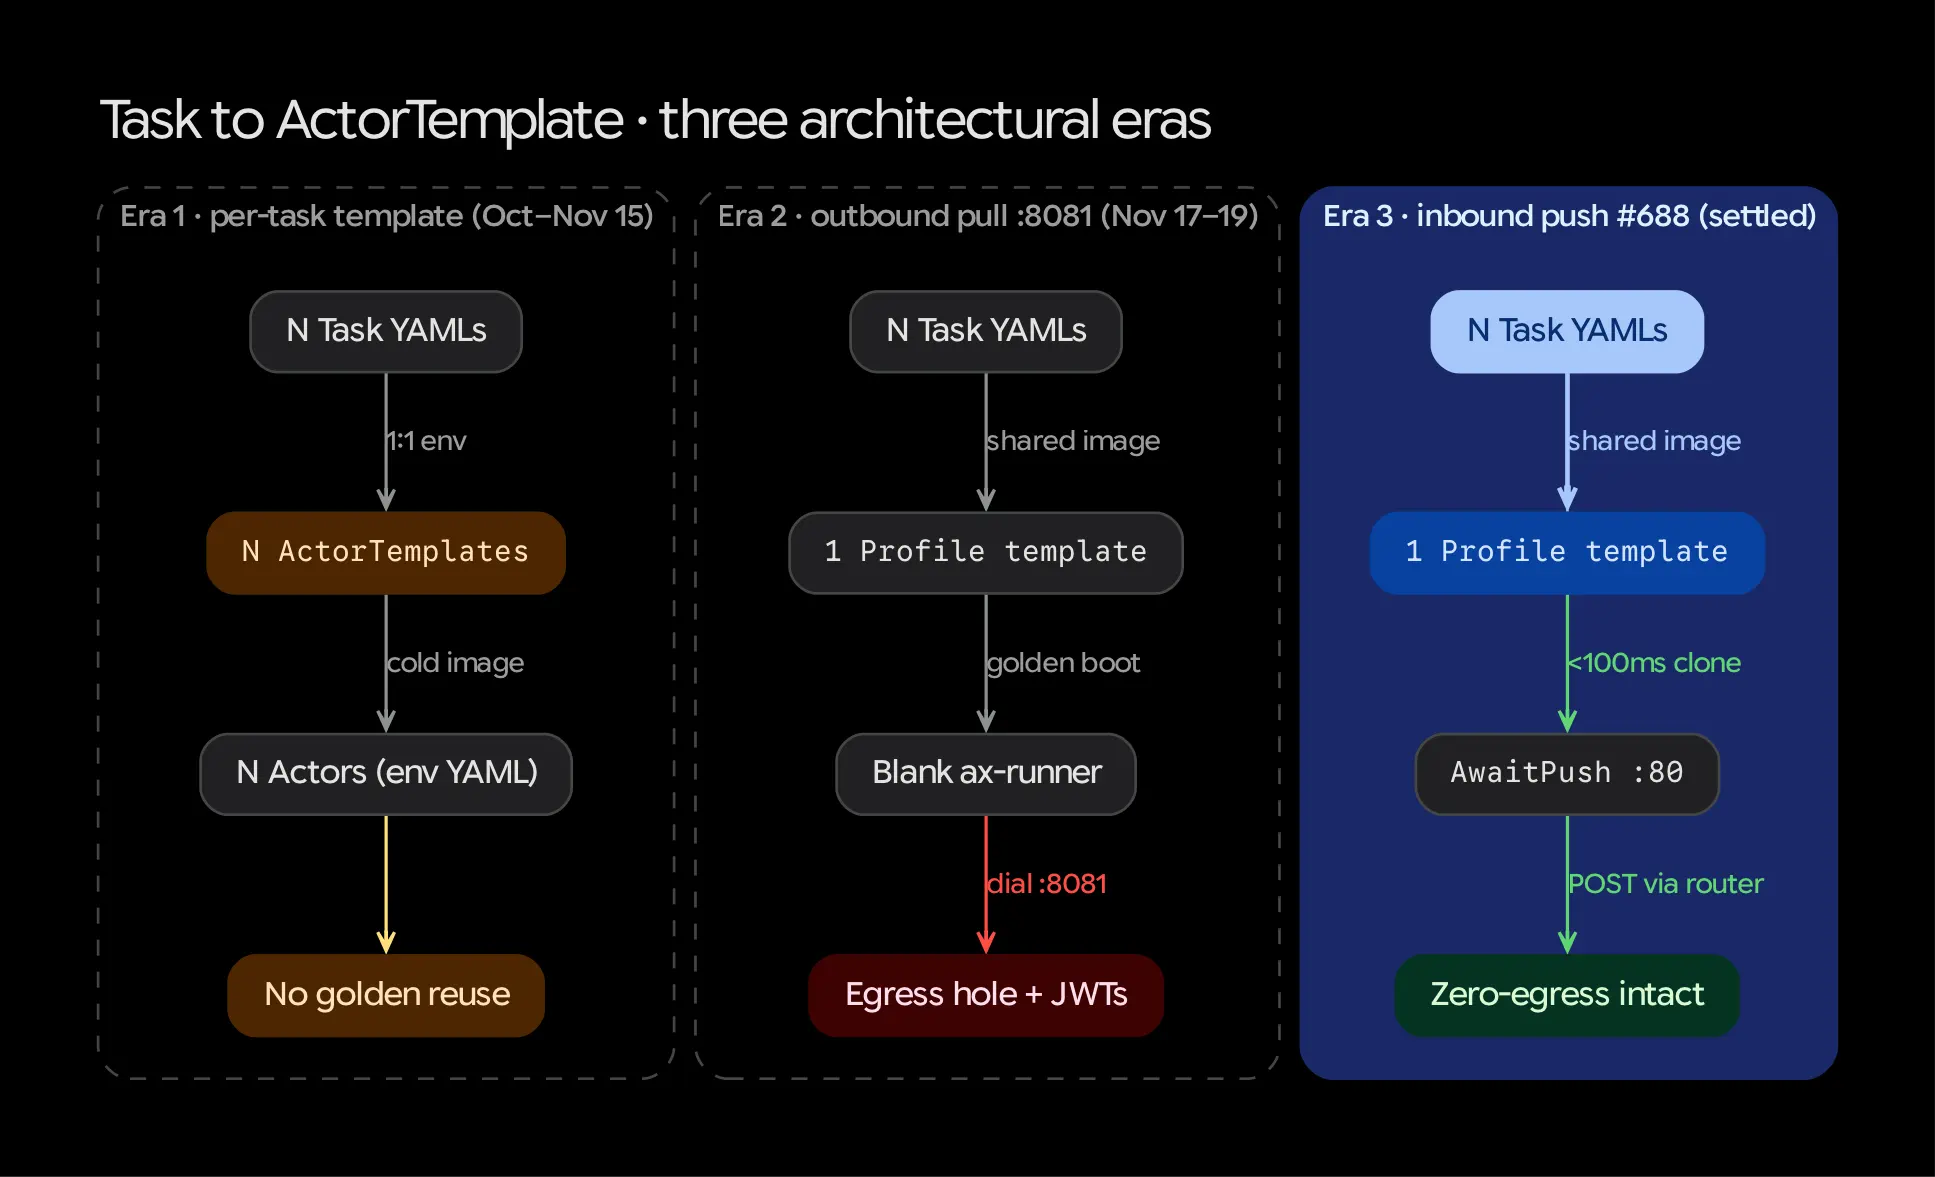
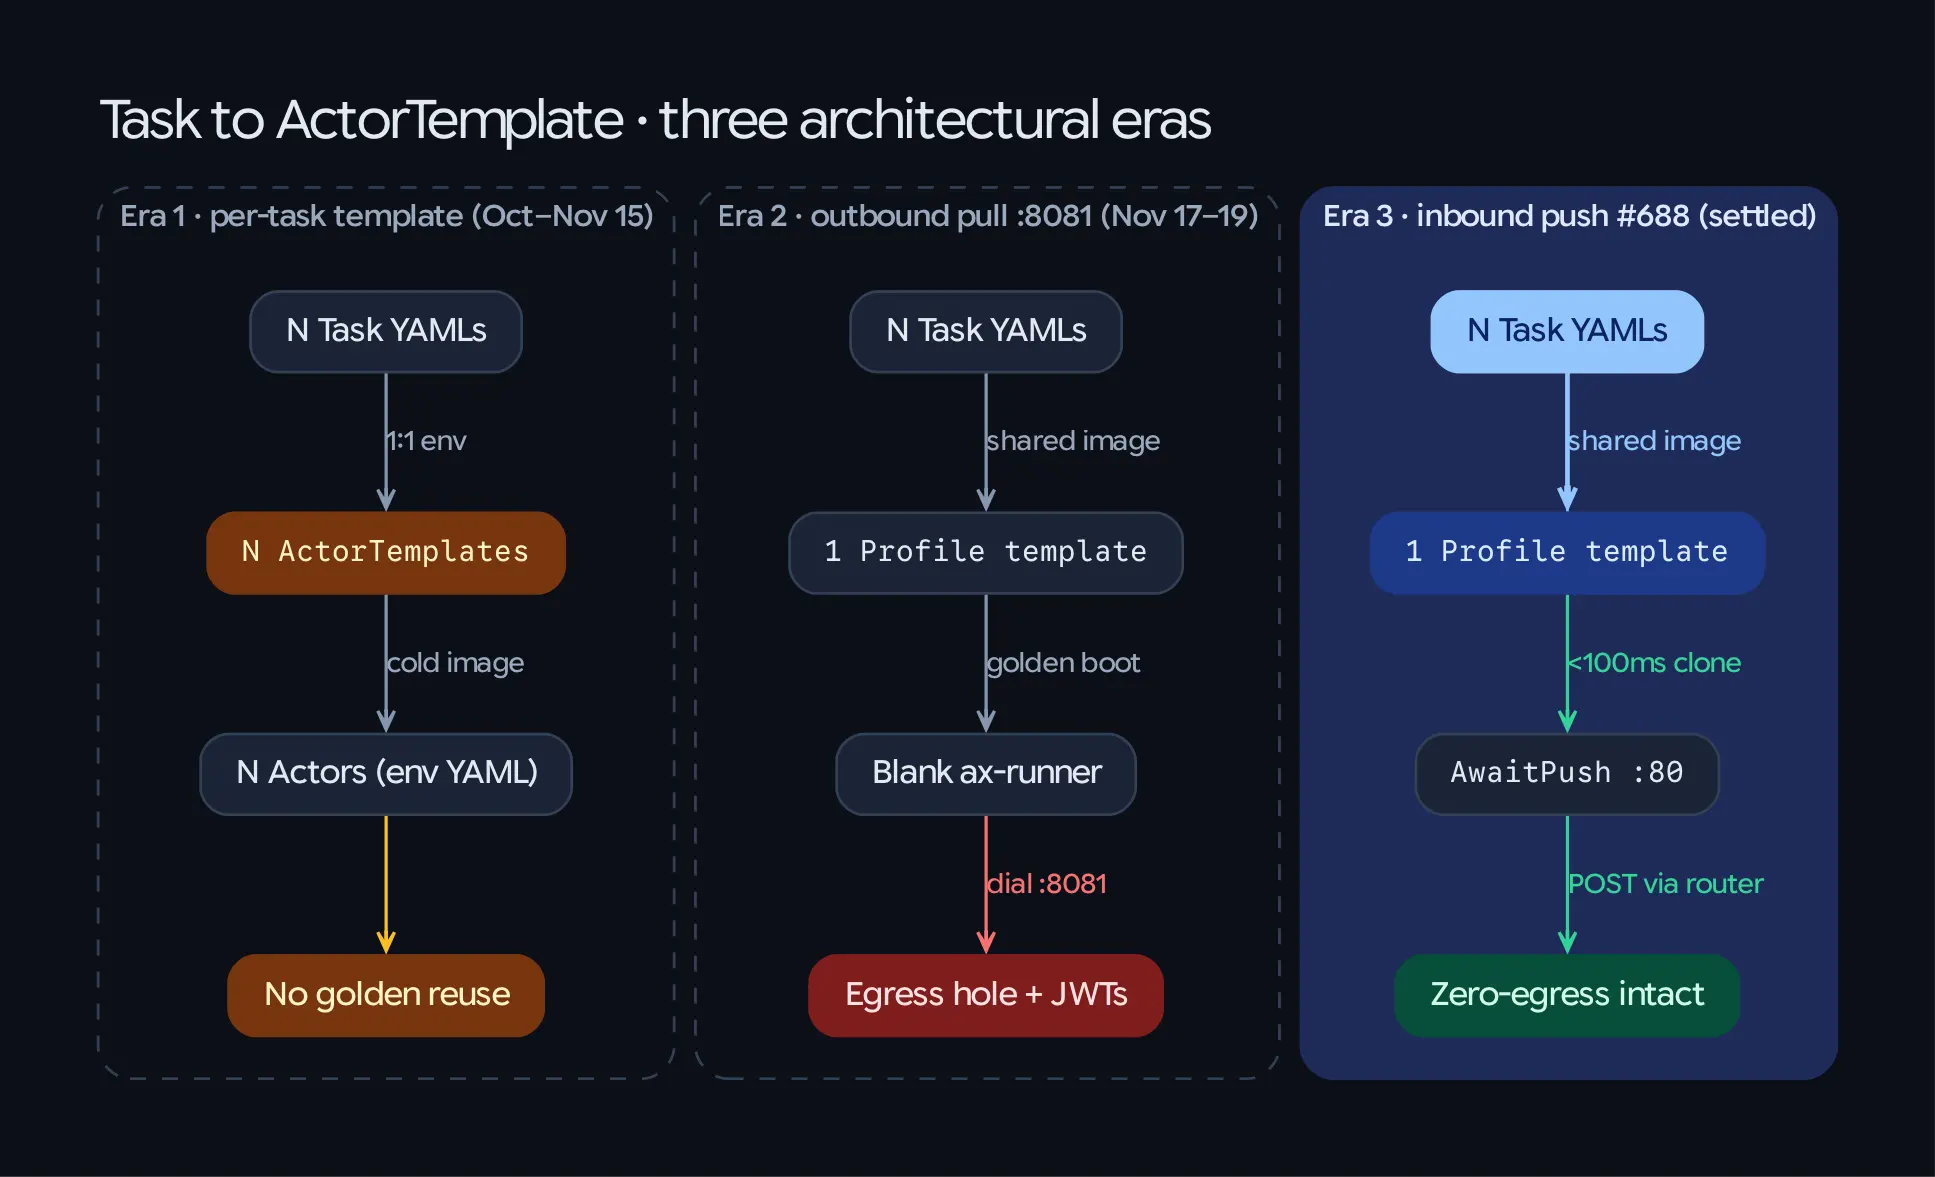
chore(concepts): migrate diagrams and Makefile from luminous.gvpr to lustrous.gvpr
Updates concepts/Makefile to ../graphviz-style/theme/lustrous.gvpr,
migrates renamed categorical classes in diagrams/*.dot (agent-blue ->
cat-cobalt, agent-teal -> cat-teal, agent-violet -> cat-violet),
re-renders all 5 light/dark WebP schematics, and updates prose labels
to Lustrous Graphviz.

diff --git a/README.md b/README.md
@@ -14,7 +14,7 @@ Each experiment track is organized either in its own self-contained top-level di
 
 | Track | Location | Focus & Hypothesis | Upstream / Fork Alignment & Docs |
 |---|---|---|---|
-| **0. AX & Substrate 1.0 Mental Model (`concepts`)** | [`concepts/`](./concepts/README.md) | Visual Luminous Graphviz architecture guide mapping Agent Substrate `1.0`'s 1B-actor multiplexer onto AX's settled `v0.4` invariants (`#683`, `#688`, `#692`, `#696`), 6 empirical laptop swarm learnings, and AX's 7-pillar growth into an agentic platform (`#724`). | [`concepts/README.md`](./concepts/README.md) · [`01`](./concepts/01-substrate-and-ax-mental-model.md) · [`02`](./concepts/02-the-three-pivots.md) · [`03`](./concepts/03-datacenter-to-laptop.md) · [`04`](./concepts/04-from-orchestrator-to-platform.md) · [`okf/concepts.md`](./okf/concepts.md) |
+| **0. AX & Substrate 1.0 Mental Model (`concepts`)** | [`concepts/`](./concepts/README.md) | Visual Lustrous Graphviz architecture guide mapping Agent Substrate `1.0`'s 1B-actor multiplexer onto AX's settled `v0.4` invariants (`#683`, `#688`, `#692`, `#696`), 6 empirical laptop swarm learnings, and AX's 7-pillar growth into an agentic platform (`#724`). | [`concepts/README.md`](./concepts/README.md) · [`01`](./concepts/01-substrate-and-ax-mental-model.md) · [`02`](./concepts/02-the-three-pivots.md) · [`03`](./concepts/03-datacenter-to-laptop.md) · [`04`](./concepts/04-from-orchestrator-to-platform.md) · [`okf/concepts.md`](./okf/concepts.md) |
 | **1. Local macOS Substrate (`ate-local`)** | [`ate-local/`](./ate-local/README.md) | Run the full AX control plane + `ateapipb.ControlServer` on Apple Silicon using native macOS **Apple `container`** microVMs (`192.168.64.x` `vmnet` bridge) and PostgreSQL—zero Kubernetes, `kind`, or Docker Desktop required. | [`google/ax#526`](https://github.com/google/ax/issues/526), [`ghchinoy/ax:feat/ate-local-apple-container`](https://github.com/ghchinoy/ax/tree/feat/ate-local-apple-container) · [`PROPOSAL.md`](./ate-local/PROPOSAL.md) · [`AX-SETUP.md`](./ate-local/AX-SETUP.md) · [`LOCAL-BACKEND.md`](./ate-local/LOCAL-BACKEND.md) · [`TESTING.md`](./ate-local/TESTING.md) · [`okf/ate-local.md`](./okf/ate-local.md) |
 | **1b. Chromebook / Crostini Kind + Substrate (`crostini`)** | [`crostini/`](./crostini/README.md) | Run the full upstream AX control plane + Agent Substrate (`v1.0.0-rc.1`) with real gVisor (`runsc`) sandboxes, `atenet-router`, and RustFS snapshots locally on a ChromeOS Linux (Crostini / Bagels KVM) VM running Debian 13 (`trixie`). | [`google/ax#553`](https://github.com/google/ax/pull/553) · [`crostini/README.md`](./crostini/README.md) · [`crostini/GUIDE.md`](./crostini/GUIDE.md) · [`okf/crostini.md`](./okf/crostini.md) |
 | **2a. Multi-Agent Swarms (`01`–`08`)** | [`swarm/`](./swarm/README.md) | Stress-test parallel microVM fan-out, Workspace git clones, stochastic parameter sweeps, Gemini code review panels, adversarial red-team debates, map-reduce synthesis, volume persistence across `suspend`/`resume`, and `Task.spec.config` loopback metadata (`127.0.0.1:8099`). | [`#479`](https://github.com/google/ax/issues/479), [`#496`](https://github.com/google/ax/issues/496), [`#523`](https://github.com/google/ax/issues/523) · [`swarm/README.md`](./swarm/README.md) · [`swarm/GUIDE.md`](./swarm/GUIDE.md) · [`okf/swarm.md`](./okf/swarm.md) |

diff --git a/okf/concepts.md b/okf/concepts.md
@@ -1,7 +1,7 @@
 ---
 type: Architecture Guide
 title: "Concepts: AX & Agent Substrate 1.0 Developer Mental Model"
-description: "Visual architecture explainers (Luminous Graphviz) mapping Agent Substrate 1.0's 1B-actor multiplexer onto AX's settled v0.4 programming model (#683, #688, #692, #696) and laptop-scale ate-local microVM swarms."
+description: "Visual architecture explainers (Lustrous Graphviz) mapping Agent Substrate 1.0's 1B-actor multiplexer onto AX's settled v0.4 programming model (#683, #688, #692, #696) and laptop-scale ate-local microVM swarms."
 status: stable
 tags: [concepts, architecture, substrate, ax, mental-model, graphviz, atelocal]
 generated:
@@ -67,7 +67,7 @@ Visual architecture explainers and historical synthesis connecting [Track 1 (`at
 - `concepts/02-the-three-pivots.md` — How Substrate `1.0`'s immutable `ActorTemplate` contract drove AX from Per-Task Templates $\rightarrow$ `:8081` Pull $\rightarrow$ `#688` (`2ede873`) Inbound Push + `#683` Cold Resume + `#696` `ForkTask`, and the `v1.1` `/run/ate` `SystemInfo` horizon (`substrate#3876`).[^substrate-3876]
 - `concepts/03-datacenter-to-laptop.md` — Six empirical lessons from running 10–50 microVM swarm tasks on `ate-local` (`#602`)[^ax-issue-602] and alignment scorecard against upstream AX & Substrate.
 - `concepts/04-from-orchestrator-to-platform.md` — Explicit Substrate-vs-AX responsibility boundary and the 7 platform pillars from `google/ax#724` (Sessions, Memory, Multi-task coordination, Input steering, Registries, Models, Trajectory collection) mapped to `docs/roadmap.md` and `ax-experiments` prototypes.
-- `concepts/diagrams/*.dot` & `*-{light,dark}.webp` — Five dual-theme Luminous Graphviz schematics.
+- `concepts/diagrams/*.dot` & `*-{light,dark}.webp` — Five dual-theme Lustrous Graphviz schematics.
 
 [^substrate-arch]: Agent Substrate 1.0 Architecture (1B actors, <100ms wakeup, WorkerPools, ActorTemplates)
 [^substrate-v1]: Agent Substrate v1.0.0 Release Notes (2026-11-05)

diff --git a/okf/index.md b/okf/index.md
@@ -6,7 +6,7 @@ okf_version: "0.2"
 
 ## In-Tree Experiment Tracks (`ax-experiments/`)
 
-* [Concepts: AX & Agent Substrate 1.0 Developer Mental Model](/concepts.md) - Visual architecture explainers (Luminous Graphviz) mapping Agent Substrate 1.0's 1B-actor multiplexer onto AX's settled `v0.4` programming model (`#683`, `#688`, `#692`, `#696`) and laptop-scale `ate-local` microVM swarms.
+* [Concepts: AX & Agent Substrate 1.0 Developer Mental Model](/concepts.md) - Visual architecture explainers (Lustrous Graphviz) mapping Agent Substrate 1.0's 1B-actor multiplexer onto AX's settled `v0.4` programming model (`#683`, `#688`, `#692`, `#696`) and laptop-scale `ate-local` microVM swarms.
 * [Track 1: Local Apple Container Substrate (ate-local)](/ate-local.md) - Native macOS Local Substrate (`ateapipb.ControlServer`) backed by Apple `container` microVMs and PostgreSQL (`google/ax#526`).
 * [Track 1b: Local Chromebook / Crostini Kind + Agent Substrate Stack (crostini)](/crostini.md) - Empirically verified guide and bootstrap script for running AX + Agent Substrate (`v1.0.0-rc.1`) locally on a Chromebook Linux (Crostini / Bagels KVM) VM with Debian 13 (`trixie`), Kind, and gVisor sandboxes.
 * [Track 2a: Multi-Agent Swarm Recipes (01–08)](/swarm.md) - Eight runnable multi-agent swarm and sandbox boundary recipes (`swarm/01..08`) on Apple `container` microVMs.

diff --git a/AGENTS.md b/AGENTS.md
@@ -38,8 +38,8 @@ concepts/               Track 0: AX & Agent Substrate 1.0 Developer Mental Model
   02-the-three-pivots.md               Template-vs-Task impedance mismatch & Era 1 -> 2 -> 3 (#688/#683/#696)
   03-datacenter-to-laptop.md           6 empirical ate-local swarm learnings & upstream alignment scorecard
   04-from-orchestrator-to-platform.md  Substrate-vs-AX boundary & 7-pillar agentic platform evolution (#724)
-  diagrams/             5 dual-theme Luminous Graphviz schematics (.dot + -{light,dark}.webp)
-  Makefile              Re-renders diagrams via gvpr + Luminous Graphviz theme
+  diagrams/             5 dual-theme Lustrous Graphviz schematics (.dot + -{light,dark}.webp)
+  Makefile              Re-renders diagrams via gvpr + Lustrous Graphviz theme
 ate-local/              Track 1: Local Agent Substrate on Apple container & Podman (google/ax#526, #602)
   README.md             Track overview, quick verification & two-layer setup/runtime appendix
   PROPOSAL.md           Architecture proposal, concept mapping & Apple Silicon benchmarks

diff --git a/concepts/README.md b/concepts/README.md
@@ -1,6 +1,6 @@
 # AX & Agent Substrate 1.0: Developer Mental Model & Architecture Guide
 
-> **OKF v0.2 Card**: [`../okf/concepts.md`](../okf/concepts.md) · **Diagrams**: Rendered with [Luminous Graphviz](https://github.com/ghchinoy/graphviz-style) (`make -C concepts`)
+> **OKF v0.2 Card**: [`../okf/concepts.md`](../okf/concepts.md) · **Diagrams**: Rendered with [Lustrous Graphviz](https://github.com/ghchinoy/graphviz-style) (`make -C concepts`)
 
 Developing on **[AX (`google/ax`)](https://github.com/google/ax)** becomes dramatically easier once you understand how **[Agent Substrate 1.0 (`agent-substrate/substrate`)](https://github.com/agent-substrate/substrate)** shapes every layer beneath it—and why AX went through three rapid architectural pivots immediately after Substrate froze `v1.0.0` on November 5, 2026.
 
